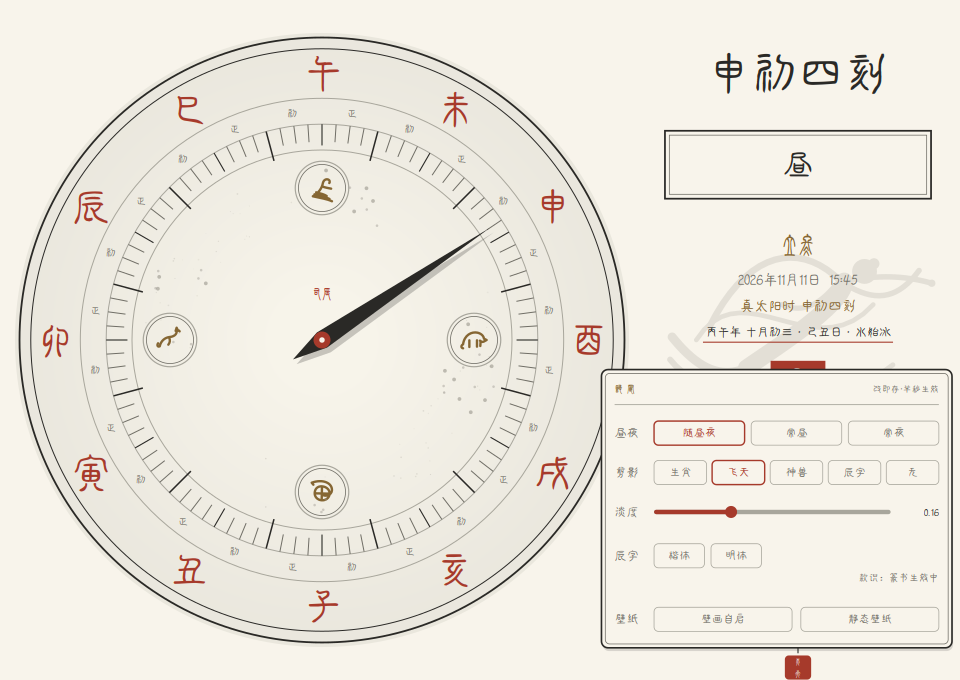
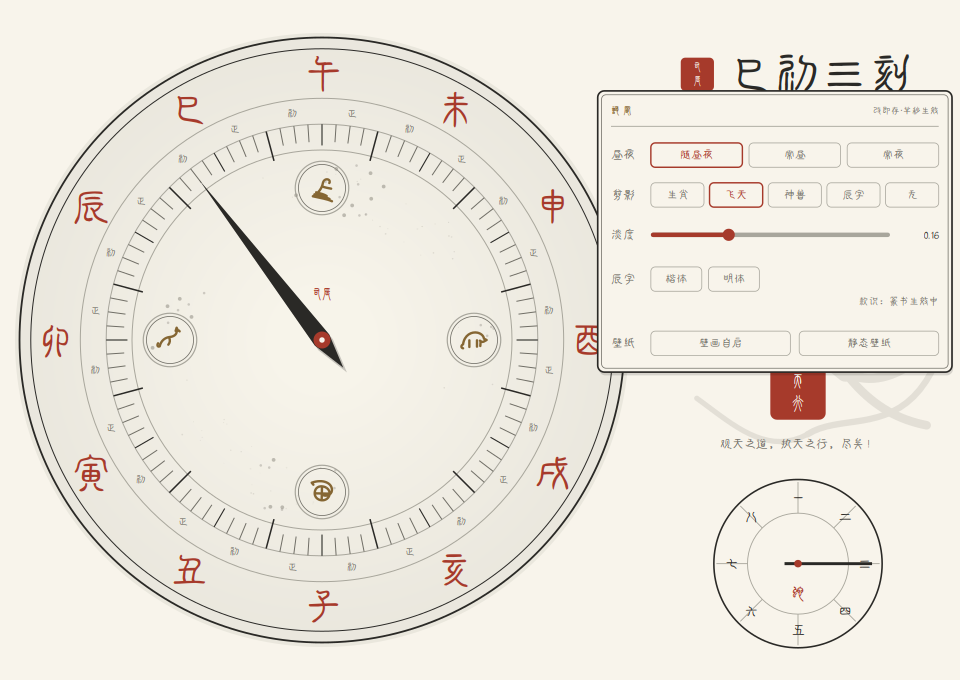
1.5.1：右列重排——司辰小印前行，天行字印入主原朱印位，矮窗不再裁切

diff --git a/dial.py b/dial.py
@@ -2,8 +2,8 @@
 """刻盘钟·盘面渲染（1.5.0）
 主盘：辰字环（楷）＋初正环＋九十六刻环＋素环（星空三等、银河弱带、四象瓦当
 线描）＋晷针（昼影夜晕）。副盘：八刻盘，刻针一辰一周，盘心生肖篆字。
-面板：读数、更牌窗（翻牌动画、试时显示）、节气、对时、真太阳时、朱印、名例、
-八刻副盘，右下「天行」字印为设置入口（设置牌窗：昼夜/剪影/淡度/辰字/壁纸）。
+面板：顶行司辰小印在前、大读数随后，更牌窗（翻牌动画、试时显示）、节气、对时、
+真太阳时、历注、名例、八刻副盘，列中「天行」字印为设置入口（设置牌窗：昼夜/剪影/淡度/辰字/壁纸）。
 性能：静态层（环、字、刻线、四象、晕影）入 ImageSurface 缓存，逐秒只绘
 星空与晷针；昼夜渐变期间（blend∈(0,1)）绕过缓存全量重绘。
 """
@@ -120,6 +120,17 @@ def _line(ctx, x1, y1, x2, y2, color, lw=1.0):
     ctx.move_to(x1, y1)
     ctx.line_to(x2, y2)
     ctx.stroke()
+
+
+def _text_w(ctx, s, size, families):
+    """Pango 实测文本像素宽，供顶行「印＋读数」整组居中。"""
+    lay = PangoCairo.create_layout(ctx)
+    fd = Pango.FontDescription()
+    fd.set_family(families)
+    fd.set_absolute_size(size * Pango.SCALE)
+    lay.set_font_description(fd)
+    lay.set_text(s, -1)
+    return lay.get_pixel_size()[0]
 
 
 def _round_rect(ctx, x, y, w, h, r):
@@ -421,7 +432,8 @@ def _dial_side(ctx, cx, cy, r, st, pal, fonts):
 
 
 # ---------------------------------------------------------------- 面板
-_PANEL_H = 566.0   # 面板设计基准高（k=1 时），缩放后列高为 _PANEL_H*k
+_PANEL_H = 560.0   # 面板设计基准高（k=1 时），缩放后列高为 _PANEL_H*k
+                   # 底缘即八刻副盘底（482+76+2），无悬挂元素
 _NOTE_Y = 276.0    # 历注行中线（可点，弹出气泡）
 _SEAL_Y = 302.0    # 朱印上缘
 _NAME_Y = 374.0    # 名例首行
@@ -882,8 +894,9 @@ def _watermark(ctx, cx, bottom, radius, st, pal, fonts, kind, alpha=0.16,
 
 def _panel(ctx, x, y, w, st, pal, fonts, k=1.0, watermark=None, wm_alpha=0.16,
            seal_pos=None):
-    """右列自上而下：读数、更牌窗（翻牌/试时）、节气、对时、真太阳时、
-    历注（可点）、朱印、名例、八刻副盘。全列居中锚定，随 k 等比缩放。"""
+    """右列自上而下：司辰小印＋读数、更牌窗（翻牌/试时）、节气、对时、
+    真太阳时、历注（可点）、天行字印（设置入口）、名例、八刻副盘。
+    全列居中锚定，随 k 等比缩放，底缘即副盘底，无悬挂元素。"""
     chen_f, seal = fonts["chen"], fonts["seal"]
     ink, faint = pal["ink"], pal["faint"]
     cx = x + w / 2.0
@@ -898,7 +911,20 @@ def _panel(ctx, x, y, w, st, pal, fonts, k=1.0, watermark=None, wm_alpha=0.16,
         _watermark(ctx, cx, y + (_NOTE_Y + 9.0) * k, side_r, st, pal, fonts,
                    watermark, wm_alpha)
 
-    _text(ctx, cx, y + 40 * k, st["read"], 42 * k, chen_f, ink)
+    # 顶行：司辰小印在前，大读数随后；组宽实测居中，过窄列则退回独排
+    ry = y + 40 * k
+    rw_ = _text_w(ctx, st["read"], 42 * k, chen_f)
+    ssz, gap = 30.0 * k, 12.0 * k
+    if ssz + gap + rw_ <= w - 16.0 * k:
+        gx = cx - (ssz + gap + rw_) / 2.0
+        ctx.set_source_rgb(*pal["cinnabar"])
+        _round_rect(ctx, gx, ry - ssz / 2.0, ssz, ssz, 4.0 * k)
+        ctx.fill()
+        _text(ctx, gx + ssz / 2.0, ry - 6.0 * k, "司", 11.0 * k, seal, pal["bg"])
+        _text(ctx, gx + ssz / 2.0, ry + 6.6 * k, "辰", 11.0 * k, seal, pal["bg"])
+        _text(ctx, gx + ssz + gap + rw_ / 2.0, ry, st["read"], 42 * k, chen_f, ink)
+    else:
+        _text(ctx, cx, ry, st["read"], 42 * k, chen_f, ink)
 
     # 更牌窗
     bx, by, bw, bh = x + 10 * k, y + 92 * k, w - 20 * k, 62 * k
@@ -950,14 +976,24 @@ def _panel(ctx, x, y, w, st, pal, fonts, k=1.0, watermark=None, wm_alpha=0.16,
                 x += 4.5 * k
             ctx.stroke()
 
-    # 朱印
-    ss = 50 * k
-    sx, sy = cx - ss / 2.0, y + _SEAL_Y * k
-    ctx.set_source_rgb(*pal["cinnabar"])
-    ctx.rectangle(sx, sy, ss, ss)
-    ctx.fill()
-    _text(ctx, cx, sy + ss * 0.30, "司", 19 * k, seal, pal["bg"])
-    _text(ctx, cx, sy + ss * 0.71, "辰", 19 * k, seal, pal["bg"])
+    # 天行字印（设置入口，居原朱印位）：常时朱线空印，悬停/展开时实印
+    if seal_pos is not None:
+        lit = bool(st.get("seal_hover")) or st.get("popup") == "settings"
+        scx, scy = seal_pos
+        sw = 50.0 * k
+        sy0_ = scy - sw / 2.0
+        _round_rect(ctx, scx - sw / 2.0, sy0_, sw, sw, 6.0 * k)
+        if lit:
+            ctx.set_source_rgb(*pal["cinnabar"])
+            ctx.fill()
+            tcol = pal["bg"]
+        else:
+            ctx.set_source_rgb(*pal["cinnabar"])
+            ctx.set_line_width(2.0 * k)
+            ctx.stroke()
+            tcol = pal["cinnabar"]
+        _text(ctx, scx, sy0_ + sw * 0.30, "天", 17.0 * k, fonts["seal"], tcol)
+        _text(ctx, scx, sy0_ + sw * 0.70, "行", 17.0 * k, fonts["seal"], tcol)
 
     # 名例一行
     _text(ctx, cx, y + _NAME_Y * k, "观天之道，执天之行，尽矣！", 11 * k, chen_f, faint)
@@ -965,24 +1001,6 @@ def _panel(ctx, x, y, w, st, pal, fonts, k=1.0, watermark=None, wm_alpha=0.16,
     # 八刻副盘
     r = side_r
     _dial_side(ctx, cx, y + _SIDE_Y * k, r, st, pal, fonts)
-
-    # 天行字印（设置入口）：常时朱线空印，悬停/展开时实印
-    if seal_pos is not None:
-        lit = bool(st.get("seal_hover")) or st.get("popup") == "settings"
-        scx, scy = seal_pos
-        sw, sh = 24.0 * k, 22.0 * k
-        _round_rect(ctx, scx - sw / 2.0, scy - sh / 2.0, sw, sh, 3.5 * k)
-        if lit:
-            ctx.set_source_rgb(*pal["cinnabar"])
-            ctx.fill()
-            tcol = pal["bg"]
-        else:
-            ctx.set_source_rgb(*pal["cinnabar"])
-            ctx.set_line_width(1.1 * k)
-            ctx.stroke()
-            tcol = pal["cinnabar"]
-        _text(ctx, scx, scy - 5.2 * k, "天", 8.2 * k, fonts["seal"], tcol)
-        _text(ctx, scx, scy + 5.6 * k, "行", 8.2 * k, fonts["seal"], tcol)
 
 
 # ---------------------------------------------------------------- 历注气泡
@@ -1011,7 +1029,7 @@ def _layout(w, h):
     """盘面与面板的几何，绘制与命中测试共此一份，避免两处走形。"""
     R = max(60.0, min((h - 72.0) / 2.0, (w - 292.0) / 2.0))
     pw = max(200.0, min(480.0, w * 0.30))
-    k = max(0.85, min(pw / 260.0, (h - 60.0) / _PANEL_H, 2.2))
+    k = max(0.78, min(pw / 260.0, (h - 60.0) / _PANEL_H, 2.2))
     content_w = 2.0 * R + 28.0 + pw
     x_left = max(0.0, (w - content_w) / 2.0)
     cx, cy = x_left + R, h / 2.0
@@ -1019,7 +1037,7 @@ def _layout(w, h):
     py0 = max(30.0, (h - _PANEL_H * k) / 2.0)
     ny = py0 + _NOTE_Y * k
     scx = px + pw / 2.0
-    scy = min(py0 + _PANEL_H * k + 16.0 * k, h - 11.0)   # 天行字印心
+    scy = py0 + (_SEAL_Y + 25.0) * k   # 天行字印心（居原朱印位，面板中部）
     return dict(R=R, pw=pw, k=k, cx=cx, cy=cy, px=px, py0=py0, note_y=ny,
                 seal=(scx, scy),
                 note_rect=(px + 4.0 * k, ny - 12.0 * k, pw - 8.0 * k, 24.0 * k),
@@ -1162,7 +1180,7 @@ def _popup(ctx, w, h, lay, kind, st, pal, fonts):
     if kind == "settings":
         g = settings_geom(w, h)
         scx, scy = lay["seal"]
-        _line(ctx, scx, scy - 13.0 * g["k"], scx, g["y"] + g["bh"], pal["ink"],
+        _line(ctx, scx, scy - 28.0 * g["k"], scx, g["y"] + g["bh"], pal["ink"],
               1.0 * g["k"])
         _card(ctx, g["x"], g["y"], g["bw"], g["bh"], pal, g["k"])
         _popup_settings(ctx, g, st, pal, fonts)
@@ -1231,7 +1249,7 @@ def settings_geom(w, h):
     chip("wall:live", left, half, cy)
     chip("wall:static", left + half + 8.0 * k, half, cy)
     return dict(x=x, y=y, bw=bw, bh=bh, k=k, left=left, right=right, pad=pad,
-                seal=(scx - 16.0 * k, scy - 14.0 * k, 32.0 * k, 28.0 * k),
+                seal=(scx - 25.0 * k, scy - 25.0 * k, 50.0 * k, 50.0 * k),
                 chips=chips, track=track, alpha_range=_SET_ALPHA)
 
 
